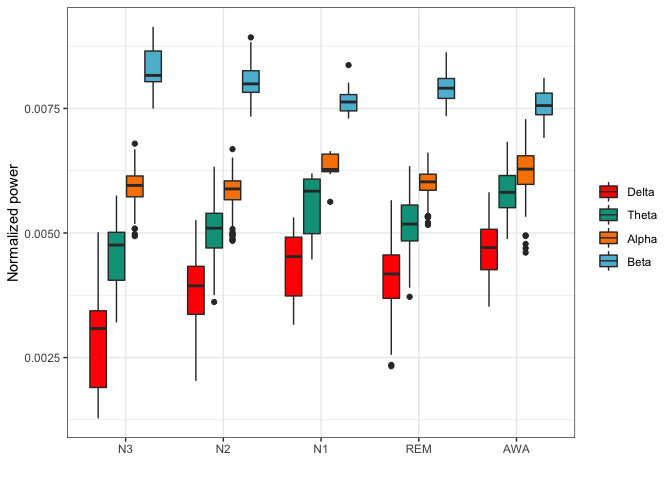
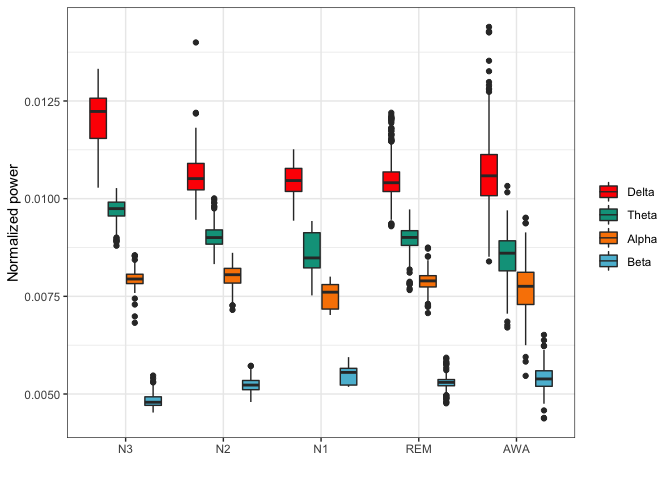
updated README

diff --git a/README.md b/README.md
@@ -134,12 +134,12 @@ bands_df <- reshape2::melt(bands_df, id="stage")
 
 summary(bands_df)
 #>  stage       variable        value         
-#>  N3 :1024   Delta:1469   Min.   :0.001278  
-#>  N2 :2164   Theta:1469   1st Qu.:0.004599  
-#>  N1 :  36   Alpha:1469   Median :0.005671  
-#>  REM:1904   Beta :1469   Mean   :0.005731  
-#>  AWA: 748                3rd Qu.:0.007051  
-#>                          Max.   :0.009137
+#>  N3 :1024   Delta:1469   Min.   :0.004375  
+#>  N2 :2164   Theta:1469   1st Qu.:0.006235  
+#>  N1 :  36   Alpha:1469   Median :0.008367  
+#>  REM:1904   Beta :1469   Mean   :0.008254  
+#>  AWA: 748                3rd Qu.:0.009860  
+#>                          Max.   :0.014397
 ```
 
 ``` r
